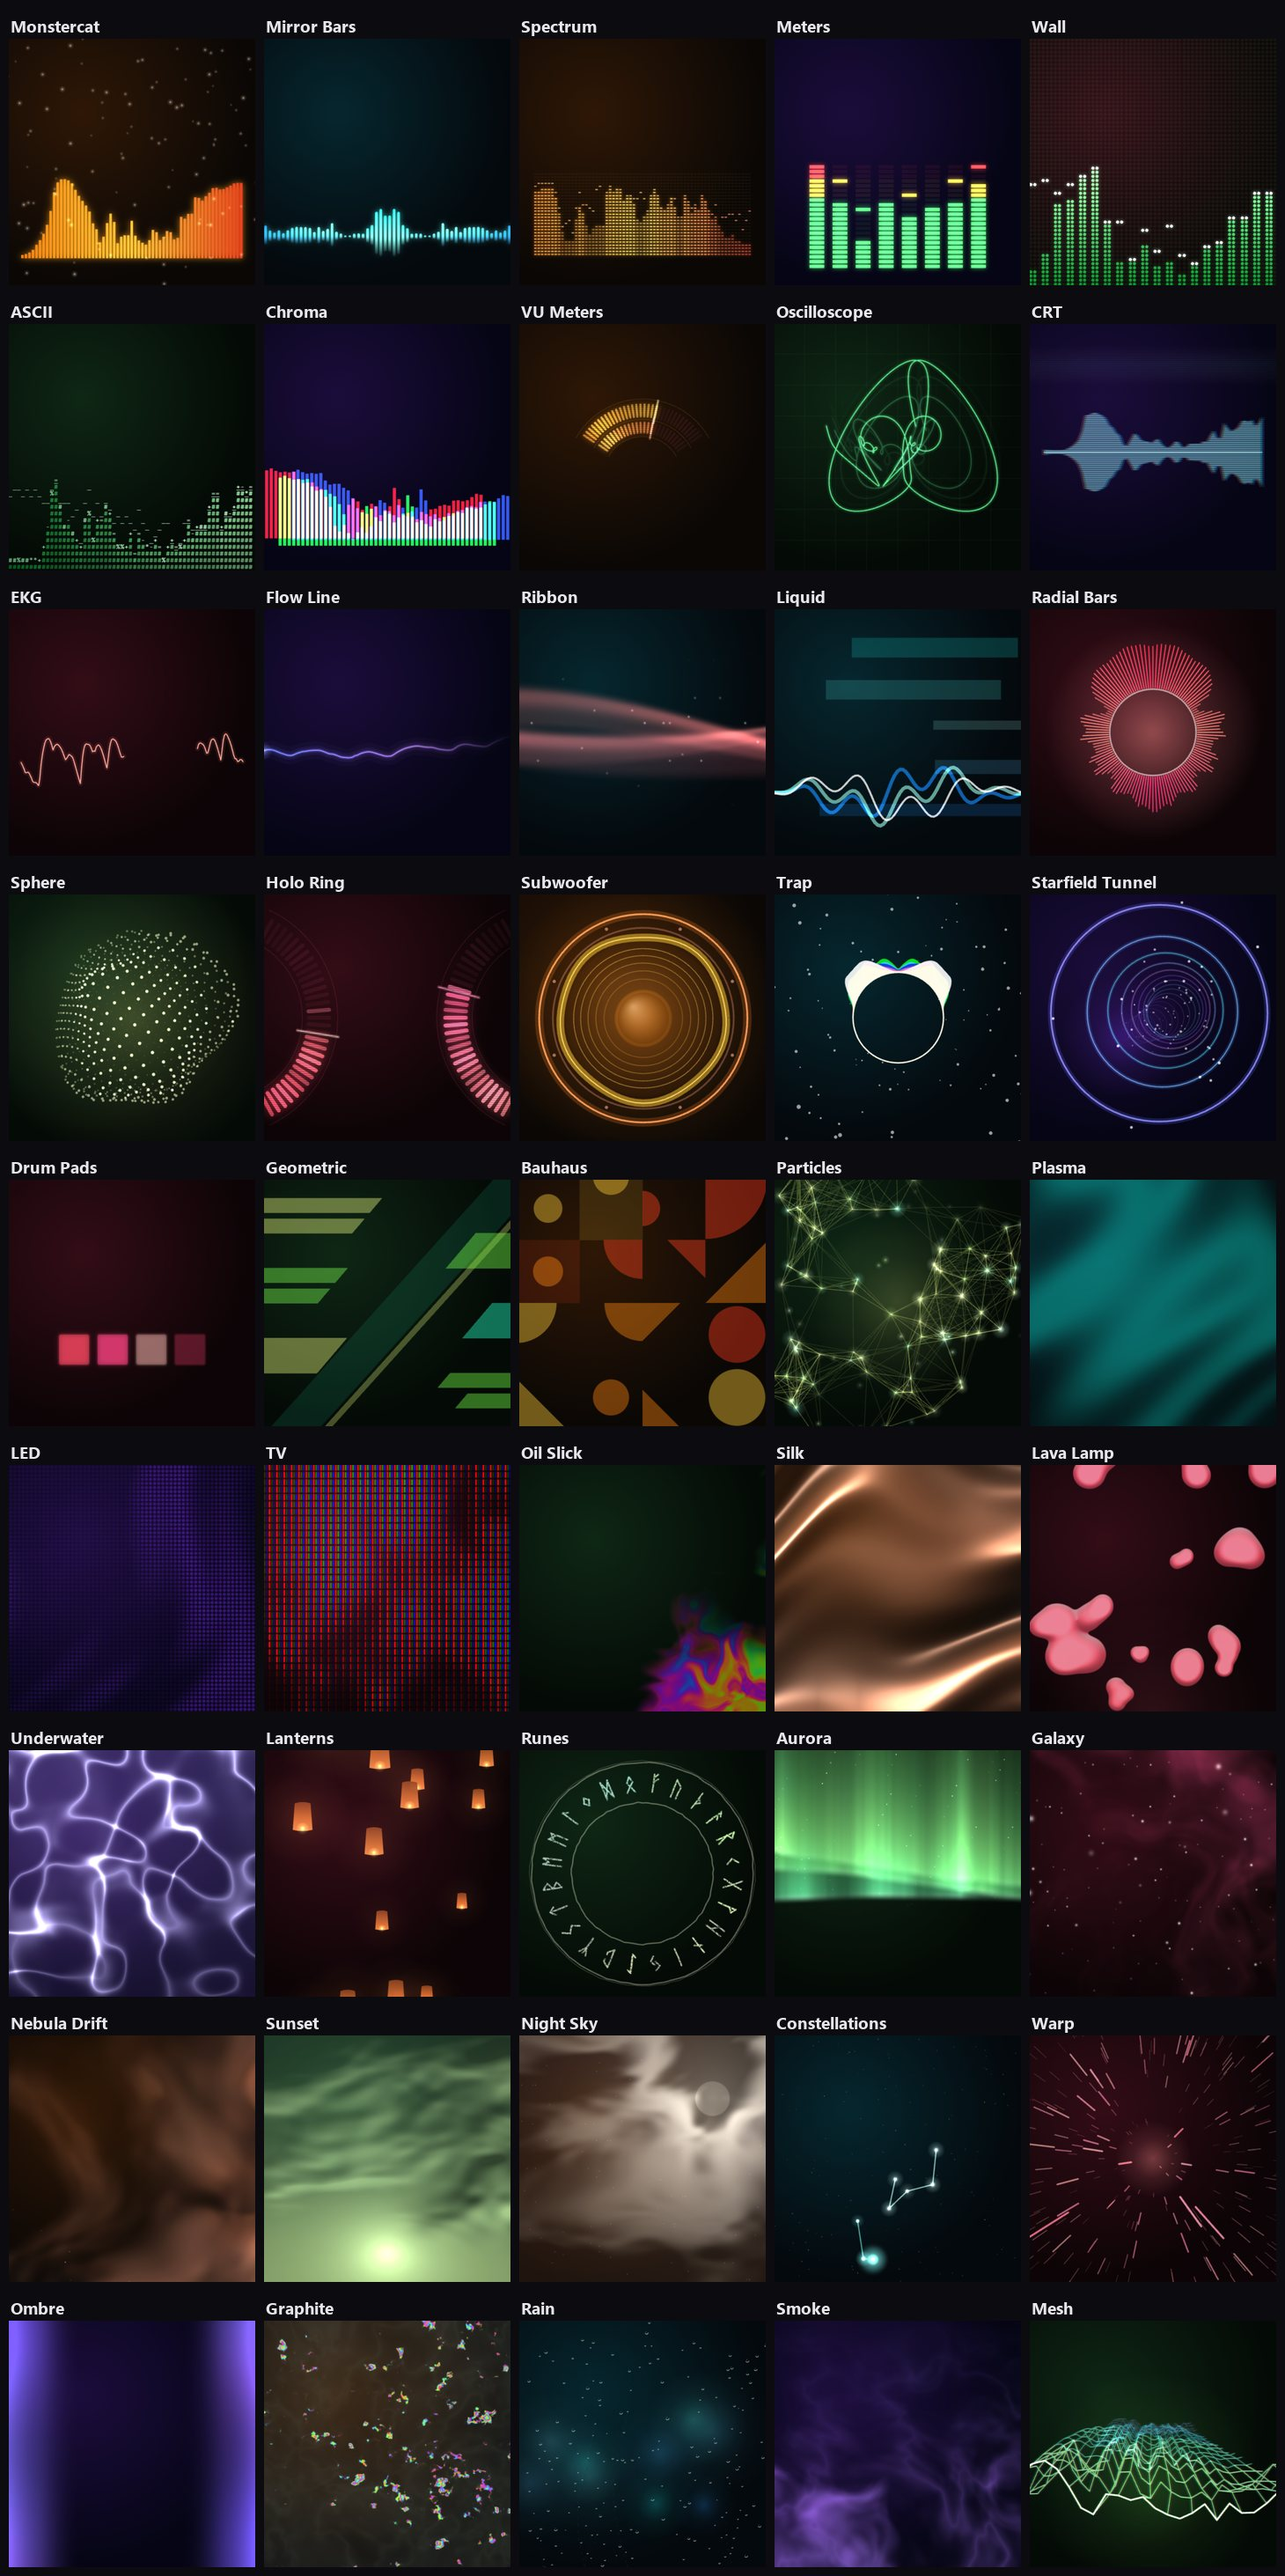
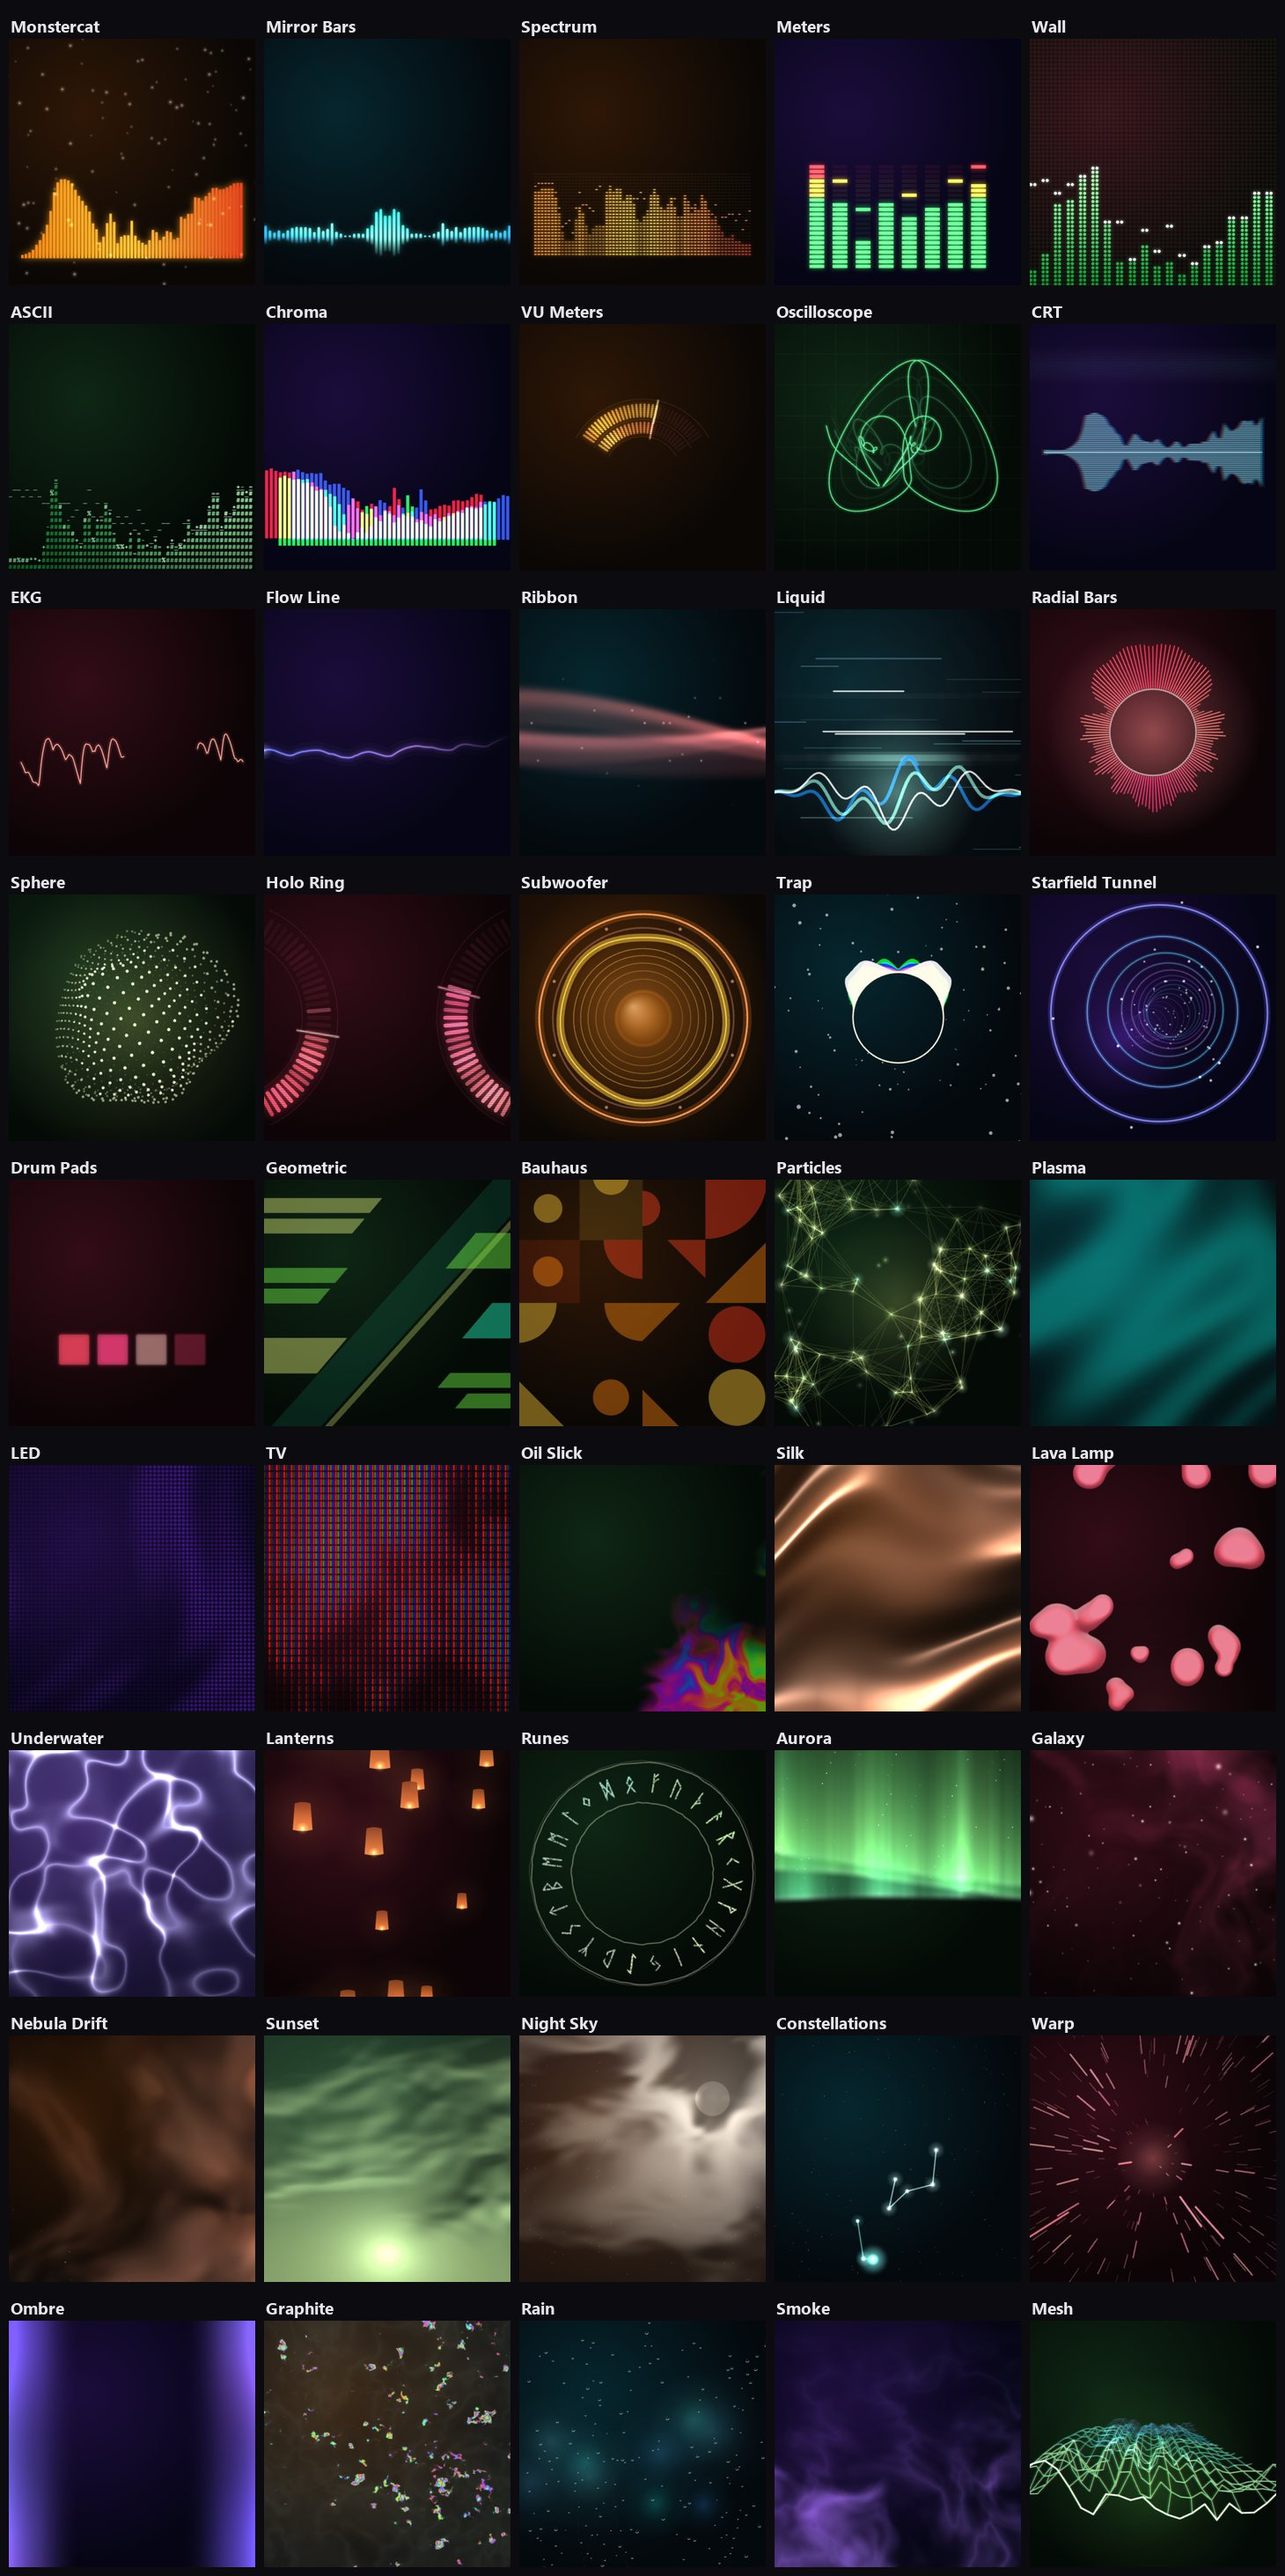
Liquid back to the original

Changed region(s): [[0.6164, 0.2488, 0.8014, 0.3421]]

diff --git a/spicy-visualiser.js b/spicy-visualiser.js
@@ -136,7 +136,7 @@
   const MODEL = {};
   const USES = {
     barCount: ["rgbsplit", "holospec", "monstercat", "mirror", "radial"],
-    particles: ["particles", "monstercat", "warp", "trap"],
+    particles: ["dnb", "particles", "monstercat", "warp", "trap"],
     position: ["monstercat", "mirror", "ascii"],
     variant: ["geometric"],
     beatEvery: ["nebula", "underwater", "sunset", "nightsky", "silk", "tvpixels", "geometric", "bauhaus", "plasma", "ledplasma", "sub", "trap", "neuro", "ribbon", "rain", "lava", "smoke", "tunnel", "aurora", "oil", "galaxy", "prism", "ombre"],
@@ -2069,33 +2069,42 @@
   const cyc = (q) => 1 - Math.abs((((q % 2) + 2) % 2) - 1); // 0..1..0, no jumps
 
   // ---------------------------------------------------------------------------
-  // Liquid (Drum & Bass): a growling "reese" bass wave (three detuned
-  // strands) that pumps on kicks, over a few wide flat colour bands sliding
-  // slowly past like the stripes on a tape deck (no thin lines, no glow).
-  // On every snare the bands brighten for a moment and there's a quick
-  // horizontal glitch.
+  // Drum & Bass: a growling "reese" bass wave (three detuned strands) that
+  // pumps on kicks, speed streaks racing past at breakbeat pace, and on every
+  // snare a white flash streak and a quick horizontal glitch.
   DRAW.dnb = (v, p, dt, t) => {
     const { ctx, w, h, U } = v;
     const e = shared.energy, bass = shared.bassPunch || 0, k = Math.min(1, shared.kick);
-    const st = v.dnb || (v.dnb = { flash: 0, glitch: 0, snareSeen: shared.snareSerial, phase: 0 });
-    // Flat bands: wide, dim, sliding slowly sideways (faster when loud).
-    if (!st.bands) st.bands = Array.from({ length: 5 }, (_, i) => ({ y: 0.12 + i * 0.17 + (Math.random() - 0.5) * 0.05, hh: 0.03 + Math.random() * 0.05, len: 0.35 + Math.random() * 0.5, x: Math.random(), sp: 0.03 + Math.random() * 0.05, c: i / 4 }));
+    const st = v.dnb || (v.dnb = { streaks: [], flash: 0, glitch: 0, snareSeen: shared.snareSerial, phase: 0 });
+    // Streaks.
+    const want = Math.round(22 * p.particles); // was 60: too many lines
+    const S2 = st.streaks;
+    const spawn = (bright) => ({ x: w + Math.random() * w * (bright ? 0.1 : 1), y: Math.random() * h, len: (40 + Math.random() * 160) * U, z: bright ? 1 : 0.25 + Math.random() * 0.75, c: Math.random(), bright });
+    while (S2.filter((q) => !q.bright).length < want) S2.push(spawn(false));
     if (st.snareSeen !== shared.snareSerial) {
       st.snareSeen = shared.snareSerial;
       st.flash = 1;
       st.glitch = 1;
+      for (let i = 0; i < 3; i++) S2.push(spawn(true));
     }
-    st.flash *= Math.exp(-dt * 7);
-    ctx.save();
-    ctx.globalCompositeOperation = "source-over";
-    for (const q of st.bands) {
-      q.x -= dt * q.sp * (0.6 + 1.2 * e) * p.speed;
-      if (q.x + q.len < 0) q.x += 1 + q.len;
-      const col = mix([10, 10, 14], colorAt(q.c), 0.26 + 0.22 * st.flash);
-      ctx.fillStyle = v.rgba(col, A_(0.4, v));
-      for (const xx of [q.x, q.x + 1 + q.len]) ctx.fillRect(xx * w, q.y * h, q.len * w, q.hh * h);
+    const sp = (500 + 1500 * e + 900 * k) * U * p.speed;
+    ctx.lineCap = "round";
+    for (let i = S2.length - 1; i >= 0; i--) {
+      const q = S2[i];
+      q.x -= sp * q.z * (q.bright ? 1.6 : 1) * dt;
+      if (q.x + q.len < -10) {
+        if (q.bright || S2.length > want + 10) S2.splice(i, 1);
+        else Object.assign(q, spawn(false), { x: w + Math.random() * 40 * U });
+        continue;
+      }
+      const col = q.bright ? WHITE : mix(WHITE, colorAt(q.c), 0.6);
+      ctx.strokeStyle = v.rgba(col, (q.bright ? 0.8 : 0.08 + 0.25 * q.z) * (0.6 + 0.6 * e));
+      ctx.lineWidth = (q.bright ? 2.2 : 0.6 + 1.4 * q.z) * U;
+      ctx.beginPath();
+      ctx.moveTo(q.x, q.y);
+      ctx.lineTo(q.x + q.len * (q.bright ? 1.5 : 1), q.y);
+      ctx.stroke();
     }
-    ctx.restore();
     // Reese bass wave.
     const y0 = h * 0.74;
     const A = h * 0.13 * p.size * (0.12 + 0.9 * bass + 0.45 * k);
@@ -2119,7 +2128,14 @@
       ctx.lineWidth = (strand === 0 ? 2 : 3.5) * U * (1 + 0.6 * k);
       ctx.stroke();
     }
-    // Snare: glitch slices.
+    v.soft(w / 2, y0, Math.max(w, h) * 0.32, colorAt(0.5), 0.12 + 0.3 * bass + 0.25 * k);
+    // Snare: flash + glitch slices.
+    st.flash *= Math.exp(-dt * 9);
+    if (st.flash > 0.02) {
+      ctx.globalAlpha = A_(0.1 * st.flash, v);
+      ctx.drawImage(softSprite(WHITE), -w * 0.2, -h * 0.4, w * 1.4, h * 1.8);
+      ctx.globalAlpha = 1;
+    }
     st.glitch *= Math.exp(-dt * 14);
     if (st.glitch > 0.15) {
       ctx.save();

diff --git a/src/spicy-visualiser.template.js b/src/spicy-visualiser.template.js
@@ -136,7 +136,7 @@
   const MODEL = {};
   const USES = {
     barCount: ["rgbsplit", "holospec", "monstercat", "mirror", "radial"],
-    particles: ["particles", "monstercat", "warp", "trap"],
+    particles: ["dnb", "particles", "monstercat", "warp", "trap"],
     position: ["monstercat", "mirror", "ascii"],
     variant: ["geometric"],
     beatEvery: ["nebula", "underwater", "sunset", "nightsky", "silk", "tvpixels", "geometric", "bauhaus", "plasma", "ledplasma", "sub", "trap", "neuro", "ribbon", "rain", "lava", "smoke", "tunnel", "aurora", "oil", "galaxy", "prism", "ombre"],
@@ -2069,33 +2069,42 @@
   const cyc = (q) => 1 - Math.abs((((q % 2) + 2) % 2) - 1); // 0..1..0, no jumps
 
   // ---------------------------------------------------------------------------
-  // Liquid (Drum & Bass): a growling "reese" bass wave (three detuned
-  // strands) that pumps on kicks, over a few wide flat colour bands sliding
-  // slowly past like the stripes on a tape deck (no thin lines, no glow).
-  // On every snare the bands brighten for a moment and there's a quick
-  // horizontal glitch.
+  // Drum & Bass: a growling "reese" bass wave (three detuned strands) that
+  // pumps on kicks, speed streaks racing past at breakbeat pace, and on every
+  // snare a white flash streak and a quick horizontal glitch.
   DRAW.dnb = (v, p, dt, t) => {
     const { ctx, w, h, U } = v;
     const e = shared.energy, bass = shared.bassPunch || 0, k = Math.min(1, shared.kick);
-    const st = v.dnb || (v.dnb = { flash: 0, glitch: 0, snareSeen: shared.snareSerial, phase: 0 });
-    // Flat bands: wide, dim, sliding slowly sideways (faster when loud).
-    if (!st.bands) st.bands = Array.from({ length: 5 }, (_, i) => ({ y: 0.12 + i * 0.17 + (Math.random() - 0.5) * 0.05, hh: 0.03 + Math.random() * 0.05, len: 0.35 + Math.random() * 0.5, x: Math.random(), sp: 0.03 + Math.random() * 0.05, c: i / 4 }));
+    const st = v.dnb || (v.dnb = { streaks: [], flash: 0, glitch: 0, snareSeen: shared.snareSerial, phase: 0 });
+    // Streaks.
+    const want = Math.round(22 * p.particles); // was 60: too many lines
+    const S2 = st.streaks;
+    const spawn = (bright) => ({ x: w + Math.random() * w * (bright ? 0.1 : 1), y: Math.random() * h, len: (40 + Math.random() * 160) * U, z: bright ? 1 : 0.25 + Math.random() * 0.75, c: Math.random(), bright });
+    while (S2.filter((q) => !q.bright).length < want) S2.push(spawn(false));
     if (st.snareSeen !== shared.snareSerial) {
       st.snareSeen = shared.snareSerial;
       st.flash = 1;
       st.glitch = 1;
+      for (let i = 0; i < 3; i++) S2.push(spawn(true));
     }
-    st.flash *= Math.exp(-dt * 7);
-    ctx.save();
-    ctx.globalCompositeOperation = "source-over";
-    for (const q of st.bands) {
-      q.x -= dt * q.sp * (0.6 + 1.2 * e) * p.speed;
-      if (q.x + q.len < 0) q.x += 1 + q.len;
-      const col = mix([10, 10, 14], colorAt(q.c), 0.26 + 0.22 * st.flash);
-      ctx.fillStyle = v.rgba(col, A_(0.4, v));
-      for (const xx of [q.x, q.x + 1 + q.len]) ctx.fillRect(xx * w, q.y * h, q.len * w, q.hh * h);
+    const sp = (500 + 1500 * e + 900 * k) * U * p.speed;
+    ctx.lineCap = "round";
+    for (let i = S2.length - 1; i >= 0; i--) {
+      const q = S2[i];
+      q.x -= sp * q.z * (q.bright ? 1.6 : 1) * dt;
+      if (q.x + q.len < -10) {
+        if (q.bright || S2.length > want + 10) S2.splice(i, 1);
+        else Object.assign(q, spawn(false), { x: w + Math.random() * 40 * U });
+        continue;
+      }
+      const col = q.bright ? WHITE : mix(WHITE, colorAt(q.c), 0.6);
+      ctx.strokeStyle = v.rgba(col, (q.bright ? 0.8 : 0.08 + 0.25 * q.z) * (0.6 + 0.6 * e));
+      ctx.lineWidth = (q.bright ? 2.2 : 0.6 + 1.4 * q.z) * U;
+      ctx.beginPath();
+      ctx.moveTo(q.x, q.y);
+      ctx.lineTo(q.x + q.len * (q.bright ? 1.5 : 1), q.y);
+      ctx.stroke();
     }
-    ctx.restore();
     // Reese bass wave.
     const y0 = h * 0.74;
     const A = h * 0.13 * p.size * (0.12 + 0.9 * bass + 0.45 * k);
@@ -2119,7 +2128,14 @@
       ctx.lineWidth = (strand === 0 ? 2 : 3.5) * U * (1 + 0.6 * k);
       ctx.stroke();
     }
-    // Snare: glitch slices.
+    v.soft(w / 2, y0, Math.max(w, h) * 0.32, colorAt(0.5), 0.12 + 0.3 * bass + 0.25 * k);
+    // Snare: flash + glitch slices.
+    st.flash *= Math.exp(-dt * 9);
+    if (st.flash > 0.02) {
+      ctx.globalAlpha = A_(0.1 * st.flash, v);
+      ctx.drawImage(softSprite(WHITE), -w * 0.2, -h * 0.4, w * 1.4, h * 1.8);
+      ctx.globalAlpha = 1;
+    }
     st.glitch *= Math.exp(-dt * 14);
     if (st.glitch > 0.15) {
       ctx.save();

diff --git a/docs/STYLES.md b/docs/STYLES.md
@@ -114,7 +114,7 @@ Soft sheets of light rolling across the screen, like the wave on an old games-co
 ### Liquid
 ![Liquid](screenshots/styles/dnb.jpg)
 
-A flowing three-strand bass wave that pumps on kicks, over a few wide, flat colour bands sliding slowly past like the stripes on a tape deck. On every snare the bands brighten for a moment and the picture glitches sideways. Made with drum & bass in mind.
+A flowing three-strand bass wave that pumps on kicks, with speed streaks racing past and a flash on every snare. Made with drum & bass in mind.
 
 ---
 
